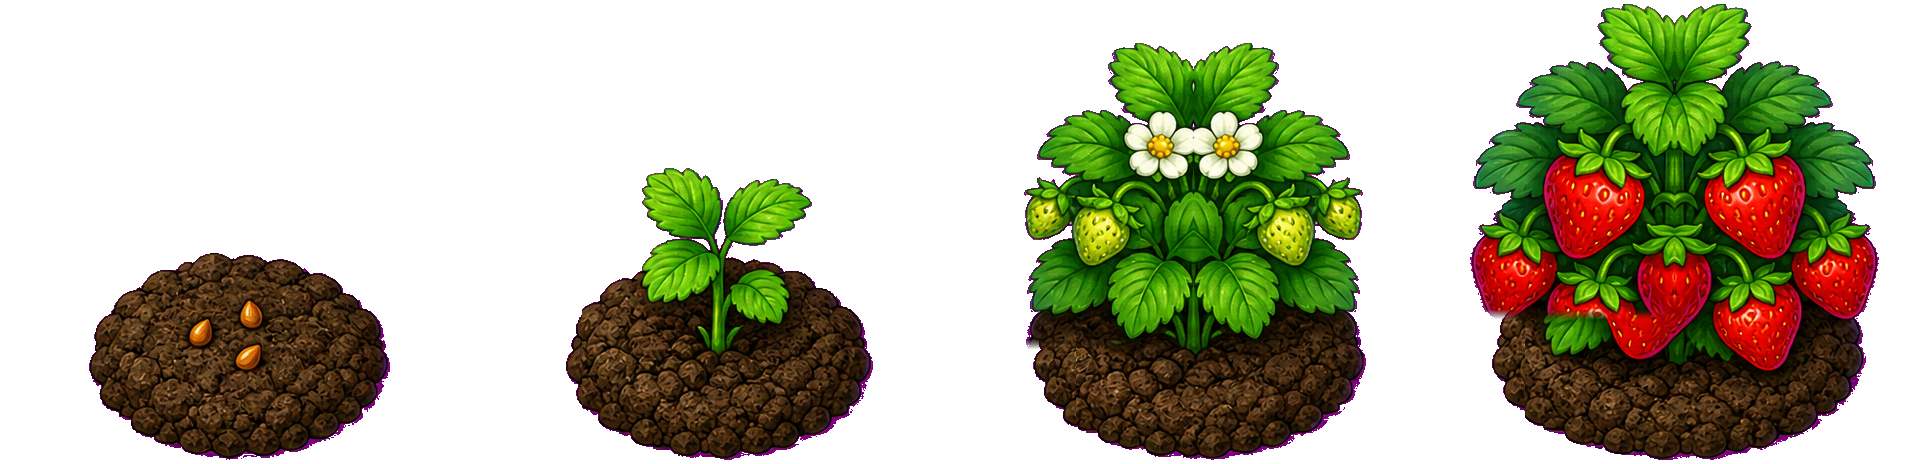
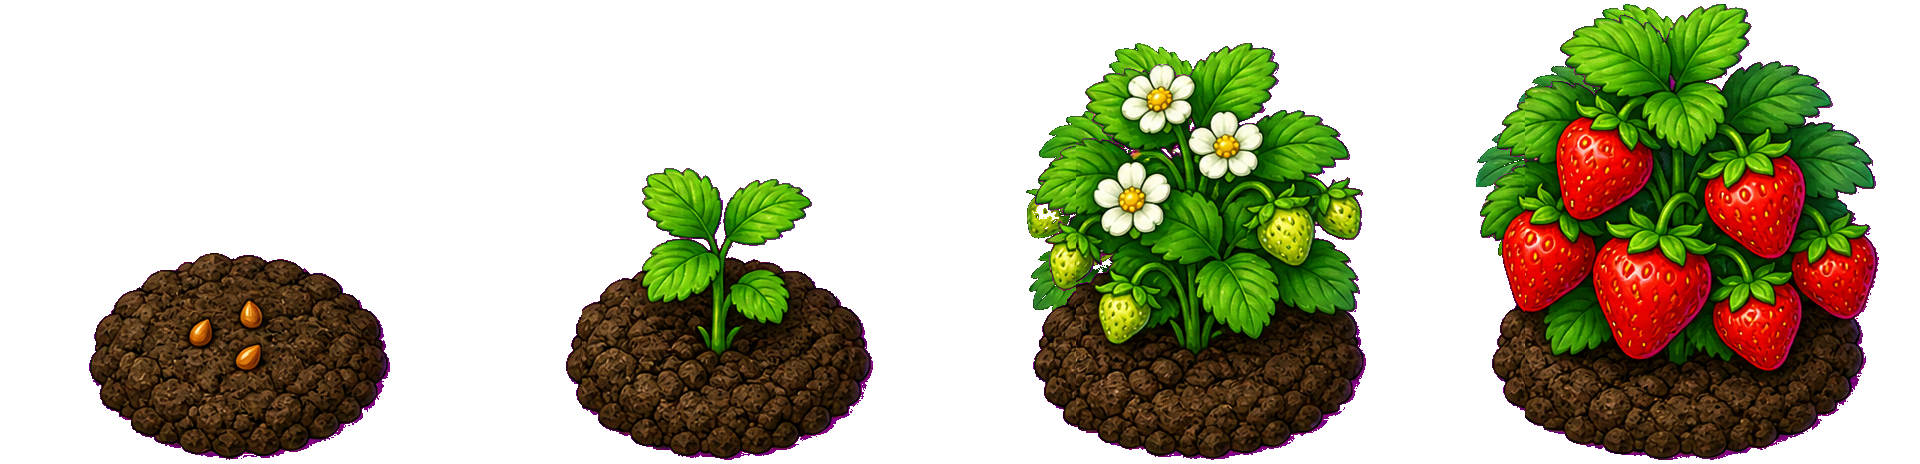
Keep the 3-flower strawberry stage instead of a 2-flower mirror.
The annotated Willow plant is sheet frame 3 (growthStage 3): three white
blossoms and green berries. Replacing the left crown with a mirror deleted
that third flower. Restore packed scraps, fill only leftover leaf tips, and
cache-bust crop URLs with ?v=3blossom so stale 392px sheets cannot stick.

Changed region(s): [[0.75, 0.0302, 0.875, 0.694], [0.5312, 0.1207, 0.625, 0.7543]]

diff --git a/apps/player/src/pixi/paintedAssets.ts b/apps/player/src/pixi/paintedAssets.ts
@@ -5,8 +5,9 @@ export const CROP_STAGE_FRAMES = 4;
 /**
  * Approved crop sheets: plant + clumpy soil disc as one unit.
  * Four equal padded cells (480). Heights differ. Packed 392-wide sheets
- * stored left foliage in the previous cell; scraps are restored and the
- * strawberry crown is completed so the left side is not a vertical cut.
+ * stored left foliage in the previous cell; scraps are restored. Strawberry
+ * frames: seed, sprout, 3-flower/green-berry, ripe. Do not mirror-replace
+ * the flowering cell — that deletes the third blossom.
  */
 export const CROP_SHEET = { width: 1920, frames: 4 } as const;
 export const CROP_FRAME_WIDTH = CROP_SHEET.width / CROP_SHEET.frames;
@@ -73,9 +74,9 @@ export const PAINTED_ART = {
   /** Must stay PNG so eat frames keep a transparent background. */
   cowEat: "/art/painted/cow_eat_sheet.png",
   crops: {
-    corn: "/art/painted/plants/plant_corn_stages.png?cell=480",
-    strawberry: "/art/painted/plants/plant_strawberry_stages.png?cell=480",
-    cotton: "/art/painted/plants/plant_cotton_stages.png?cell=480",
+    corn: "/art/painted/plants/plant_corn_stages.png?v=3blossom",
+    strawberry: "/art/painted/plants/plant_strawberry_stages.png?v=3blossom",
+    cotton: "/art/painted/plants/plant_cotton_stages.png?v=3blossom",
   },
 } as const;
 

diff --git a/apps/player/vite.config.ts b/apps/player/vite.config.ts
@@ -10,9 +10,17 @@ export default defineConfig({
       includeAssets: ["icon.svg", "art/*"],
       workbox: {
         globPatterns: ["**/*.{js,css,html,svg,png,jpg,webp,ico,webmanifest}"],
+        globIgnores: ["**/art/painted/plants/**"],
         maximumFileSizeToCacheInBytes: 4 * 1024 * 1024,
         navigateFallback: "/index.html",
         navigateFallbackDenylist: [/^\/admin/, /^\/api/, /^\/health/],
+        runtimeCaching: [
+          {
+            urlPattern: /\/art\/painted\/plants\/.*/,
+            handler: "NetworkFirst",
+            options: { cacheName: "farmhand-crop-sheets" },
+          },
+        ],
       },
       manifest: {
         name: "FarmHand",

diff --git a/apps/player/src/illustrations.tsx b/apps/player/src/illustrations.tsx
@@ -250,9 +250,9 @@ function SoilMound() {
 export type PlantKind = CropKind;
 
 const CROP_SHEETS: Record<CropKind, string> = {
-  corn: "/art/painted/plants/plant_corn_stages.png",
-  strawberry: "/art/painted/plants/plant_strawberry_stages.png",
-  cotton: "/art/painted/plants/plant_cotton_stages.png",
+  corn: "/art/painted/plants/plant_corn_stages.png?v=3blossom",
+  strawberry: "/art/painted/plants/plant_strawberry_stages.png?v=3blossom",
+  cotton: "/art/painted/plants/plant_cotton_stages.png?v=3blossom",
 };
 
 export function plantKind(plot: Pick<PublicPlot, "state" | "tier" | "growthStage" | "ready">): PlantKind | null {

diff --git a/apps/player/src/pixi/paintedAssets.test.ts b/apps/player/src/pixi/paintedAssets.test.ts
@@ -37,7 +37,7 @@ test("approved crop sheets are 1920-wide unpacked soil+plant cells", () => {
   assert.ok(PAINTED_ART.crops.corn.includes("plant_corn_stages.png"));
   assert.ok(PAINTED_ART.crops.strawberry.includes("plant_strawberry_stages.png"));
   assert.ok(PAINTED_ART.crops.cotton.includes("plant_cotton_stages.png"));
-  assert.ok(PAINTED_ART.crops.strawberry.includes("cell=480"));
+  assert.ok(PAINTED_ART.crops.strawberry.includes("v=3blossom"));
 });
 
 test("crop disc pivot sits inside the soil mound, not the cell midpoint leftover", () => {

diff --git a/apps/player/src/screens/GardenQa.tsx b/apps/player/src/screens/GardenQa.tsx
@@ -42,7 +42,8 @@ function qaPlots(pack: string): PublicPlot[] {
   if (pack === "berries") {
     return Array.from({ length: 9 }, (_, slot) => plot(slot, 2, 4, true));
   }
-  if (pack === "flowers") {
+  // Stage 3 = 3-flower / green-berry flowering (the annotated Willow plant).
+  if (pack === "flowers" || pack === "blossom") {
     return Array.from({ length: 9 }, (_, slot) => plot(slot, 2, 3));
   }
   // Annotated Willow mix: ripe corn, flowering center strawberry, two sprouts.

diff --git a/scripts/unpack-crop-sheets.py b/scripts/unpack-crop-sheets.py
@@ -139,42 +139,35 @@ def measure_disc(cell: Image.Image) -> dict:
 
 
 def restore_left_foliage(cell: Image.Image, name: str, index: int) -> Image.Image:
-    """Packed sheets discarded upper-left strawberry leaves (scraps were lower-only).
+    """Add missing left leaf tips without overwriting the painted plant.
 
-    Mirror the intact right crown across the soil-disc x into transparent
-    pixels so both sides of the bush read as full foliage.
+    Full left-half replace turned the 3-flower flowering stage into a 2-flower
+    mirror. Only fill transparent pixels so unique blossoms stay put.
     """
     if name != "strawberry" or index < 2:
         return cell
     disc = measure_disc(cell)
     w, h = cell.size
-    src_img = cell.copy()
-    src = src_img.load()
+    src = cell.load()
     out = cell.copy()
     dst = out.load()
     cx = disc["x"]
-    # Stop above the soil so hanging berries are filled without smearing the disc.
     y_max = min(h, max(1, int(disc["y"] - 40)))
-    feather = 10
     filled = 0
-    for y in range(0, min(h, y_max + feather)):
-        # Fully replace the left crown so the old packing wall is not a seam.
-        fade = 1.0
-        if y >= y_max:
-            fade = 1.0 - (y - y_max + 1) / feather
+    for y in range(0, y_max):
         for x in range(0, cx):
+            if dst[x, y][3] >= 20:
+                continue
             mx = 2 * cx - x
             if mx < 0 or mx >= w:
                 continue
             pix = src[mx, y]
-            if fade >= 0.999:
+            r, g, b, a = pix
+            # Leaves only — never clone blossoms or berries onto the 3-flower stage.
+            if a >= 20 and g > r + 10 and g > 60:
                 dst[x, y] = pix
                 filled += 1
-            elif pix[3] >= 20 or dst[x, y][3] >= 20:
-                a = tuple(int(dst[x, y][i] * (1 - fade) + pix[i] * fade) for i in range(4))
-                dst[x, y] = a
-                filled += 1
-    print(f"  {name} {index}: replaced left crown across x={cx} (y<{y_max}, {filled} px)")
+    print(f"  {name} {index}: filled {filled} transparent leaf px across x={cx} (y<{y_max})")
     return out
 
 

diff --git a/docs/qa/plant-align/README.md b/docs/qa/plant-align/README.md
@@ -34,12 +34,15 @@ Live Pixi canvas captures (`canvas.toDataURL`, `GARDEN_CAMERA_ZOOM = 0.85`, host
 
 | File | What it is |
 | --- | --- |
-| [`willow-mix.png`](after-fix/willow-mix.png) | Annotated Willow mix: ripe corn, flowering center strawberry, two sprouts |
+| [`willow-mix.png`](after-fix/willow-mix.png) | Annotated Willow mix: ripe corn, **3-flower** center strawberry, two sprouts |
+| [`strawberry-flower-3blossom.png`](after-fix/strawberry-flower-3blossom.png) | Stage 3 only — 3 white flowers + green berries, left foliage intact |
 | [`strawberries-ripe.png`](after-fix/strawberries-ripe.png) | All nine ripe strawberries |
-| [`strawberry-flower-close.png`](after-fix/strawberry-flower-close.png) | Center flowering strawberry, left + right foliage |
-| [`strawberry-center-close.png`](after-fix/strawberry-center-close.png) | Center ripe strawberry, left + right foliage |
+| [`strawberry-flower-close.png`](after-fix/strawberry-flower-close.png) | Close crop of the 3-flower center plant |
+| [`strawberry-center-close.png`](after-fix/strawberry-center-close.png) | Center ripe strawberry |
 
-These are the running player at `/qa/garden`, not composites or generated images. The loaded strawberry sheet is **1920×464** (frame x = 2 / 482 / 962 / 1442). Packed 392px sheets discarded the upper-left crown; `scripts/unpack-crop-sheets.py` restores scraps and completes that crown.
+These are the running player at `/qa/garden?pack=willow` or `pack=blossom`, not composites. Sheet is **1920×464** (frame x = 2 / 482 / 962 / 1442). Stage 3 is the annotated 3-flower plant — do not mirror-replace that cell.
+
+**Cache:** Pixi loads `/art/painted/plants/plant_*_stages.png?v=3blossom`. Workbox does not precache plant sheets (NetworkFirst). If an old 392px sheet is stuck, hard-refresh or unregister the service worker, then reload `/qa/garden?pack=blossom`.
 
 Mound centers are playfield / texture pixels (`GARDEN_MOUND_PX`), never screen coords. Dirt and crops share one `playfield` container.
 

diff --git a/apps/player/public/art/painted/plants/README.md b/apps/player/public/art/painted/plants/README.md
@@ -4,7 +4,7 @@ Approved horizontal sheets: **plant + clumpy dark soil disc as one unit**. Four 
 
 1. Seed on the disc
 2. Seedling
-3. Growing with buds / flowers / cobs
+3. Growing with buds / flowers / cobs (strawberry: **3 white flowers + green berries**)
 4. Mature / ripe
 
 Do not replace these with plant-only cutouts. The disc is the planted plot — scale it to cover the painted pebble-ring.
